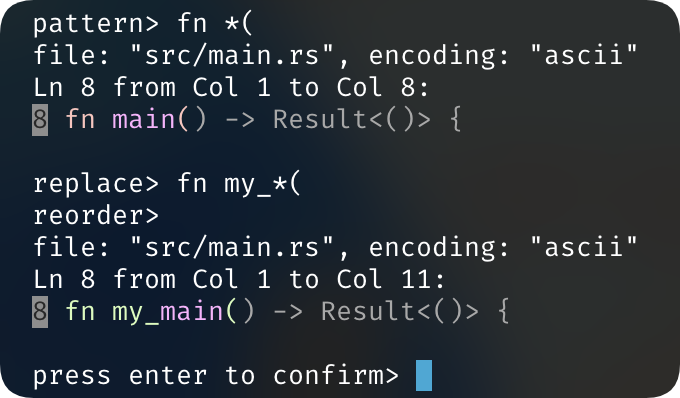
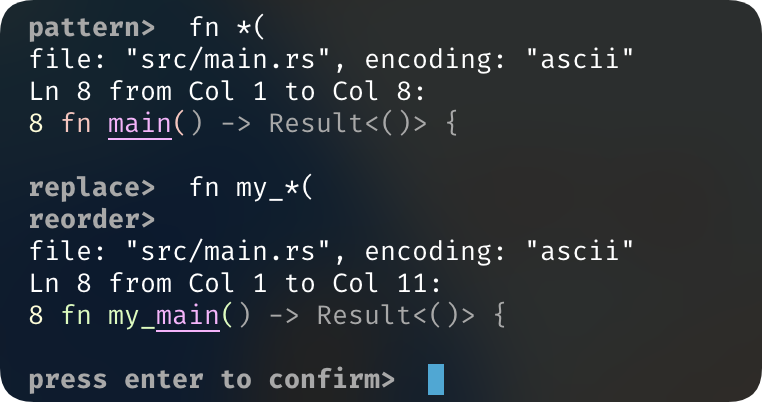
feat: update style

diff --git a/src/match.rs b/src/match.rs
@@ -132,6 +132,10 @@ impl Matches {
     pub fn text(&self) -> &str {
         &self.text
     }
+
+    pub fn is_empty(&self) -> bool {
+        self.matches.is_empty()
+    }
 }
 
 impl Display for Matches {
@@ -171,9 +175,9 @@ impl Display for Matches {
                 write!(
                     f,
                     "{}{:>max_line_width$}{} ",
-                    style::SetBackgroundColor(Color::DarkGrey),
+                    style::SetForegroundColor(Color::Yellow),
                     line + 1,
-                    style::SetBackgroundColor(Color::Reset),
+                    style::SetForegroundColor(Color::Reset),
                 )?;
 
                 let mut current = line_breaks[line];
@@ -207,8 +211,7 @@ impl Display for Matches {
                         }
                     };
 
-                    let content =
-                        &self.text[current..end].trim_end_matches(['\n', '\r']);
+                    let content = &self.text[current..end].trim_end_matches(['\n', '\r']);
 
                     let content = match status {
                         1 => {
@@ -218,7 +221,7 @@ impl Display for Matches {
                                 content.red()
                             }
                         }
-                        2 => content.magenta(),
+                        2 => content.magenta().underlined(),
                         _ => content.attribute(Attribute::Dim),
                     };
 

diff --git a/src/input.rs b/src/input.rs
@@ -1,9 +1,15 @@
 use std::io::Write as _;
 
 use anyhow::Result;
+use crossterm::style::{Attribute, Stylize, style};
 
 pub fn input(prompt: &str, multiline: bool) -> Result<String> {
-    print!("{}> ", prompt);
+    print!(
+        "{} ",
+        style(format_args!("{}> ", prompt))
+            .attribute(Attribute::Bold)
+            .attribute(Attribute::Dim)
+    );
     std::io::stdout().flush()?;
     let stdin = std::io::stdin();
     let mut buf = String::new();

diff --git a/src/job.rs b/src/job.rs
@@ -61,6 +61,10 @@ impl Job {
             })
             .collect::<Result<Vec<_>, _>>()?;
 
+        if !files.iter().any(|(_, m, _)| !m.is_empty()) {
+            return Err(anyhow!("no matches found"));
+        }
+
         for (path, file, encoding) in &files {
             println!(
                 "file: \"{}\", encoding: \"{}\"\n{file}",
